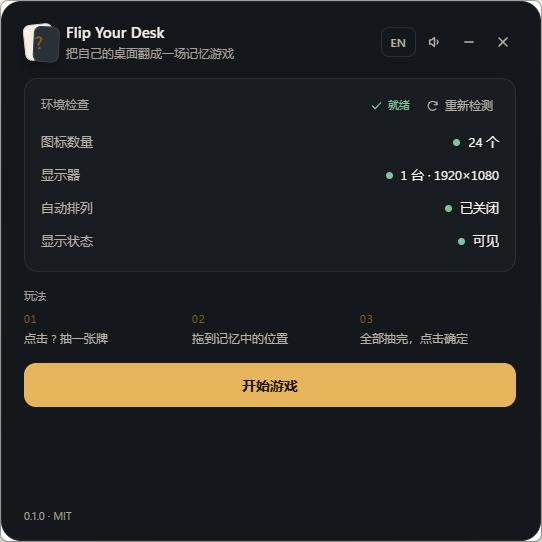
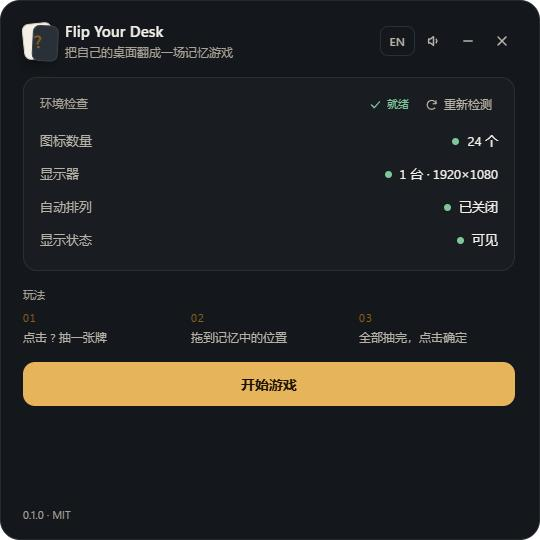
fix: 启动窗白角与方角阴影（透明窗口关 DWM shadow，覆盖层窗口同款组合）+ docs 物料
- tauri.conf.json 启动窗 shadow true→false：透明窗口开阴影会在矩形边界画
  DWM 阴影，CSS 圆角外露出白边；与 lib.rs 覆盖层窗口的 shadow(false)+
  transparent(true) 对齐，实拍验证圆角平滑、壁纸从角上透出
- README 填入三张实拍截图与 11s 演示 GIF（demo 模式录制，270KB）

diff --git a/README.md b/README.md
@@ -14,7 +14,11 @@
 
 ## 截图
 
-<!-- 截图将在首个 Release 后补充 -->
+| 启动窗 | 牌桌 | 结算 |
+| --- | --- | --- |
+| ![启动窗](docs/screenshot-launcher.png) | ![牌桌](docs/screenshot-board.png) | ![结算](docs/screenshot-result.png) |
+
+![玩法演示](docs/demo.gif)
 
 ## 安装
 
